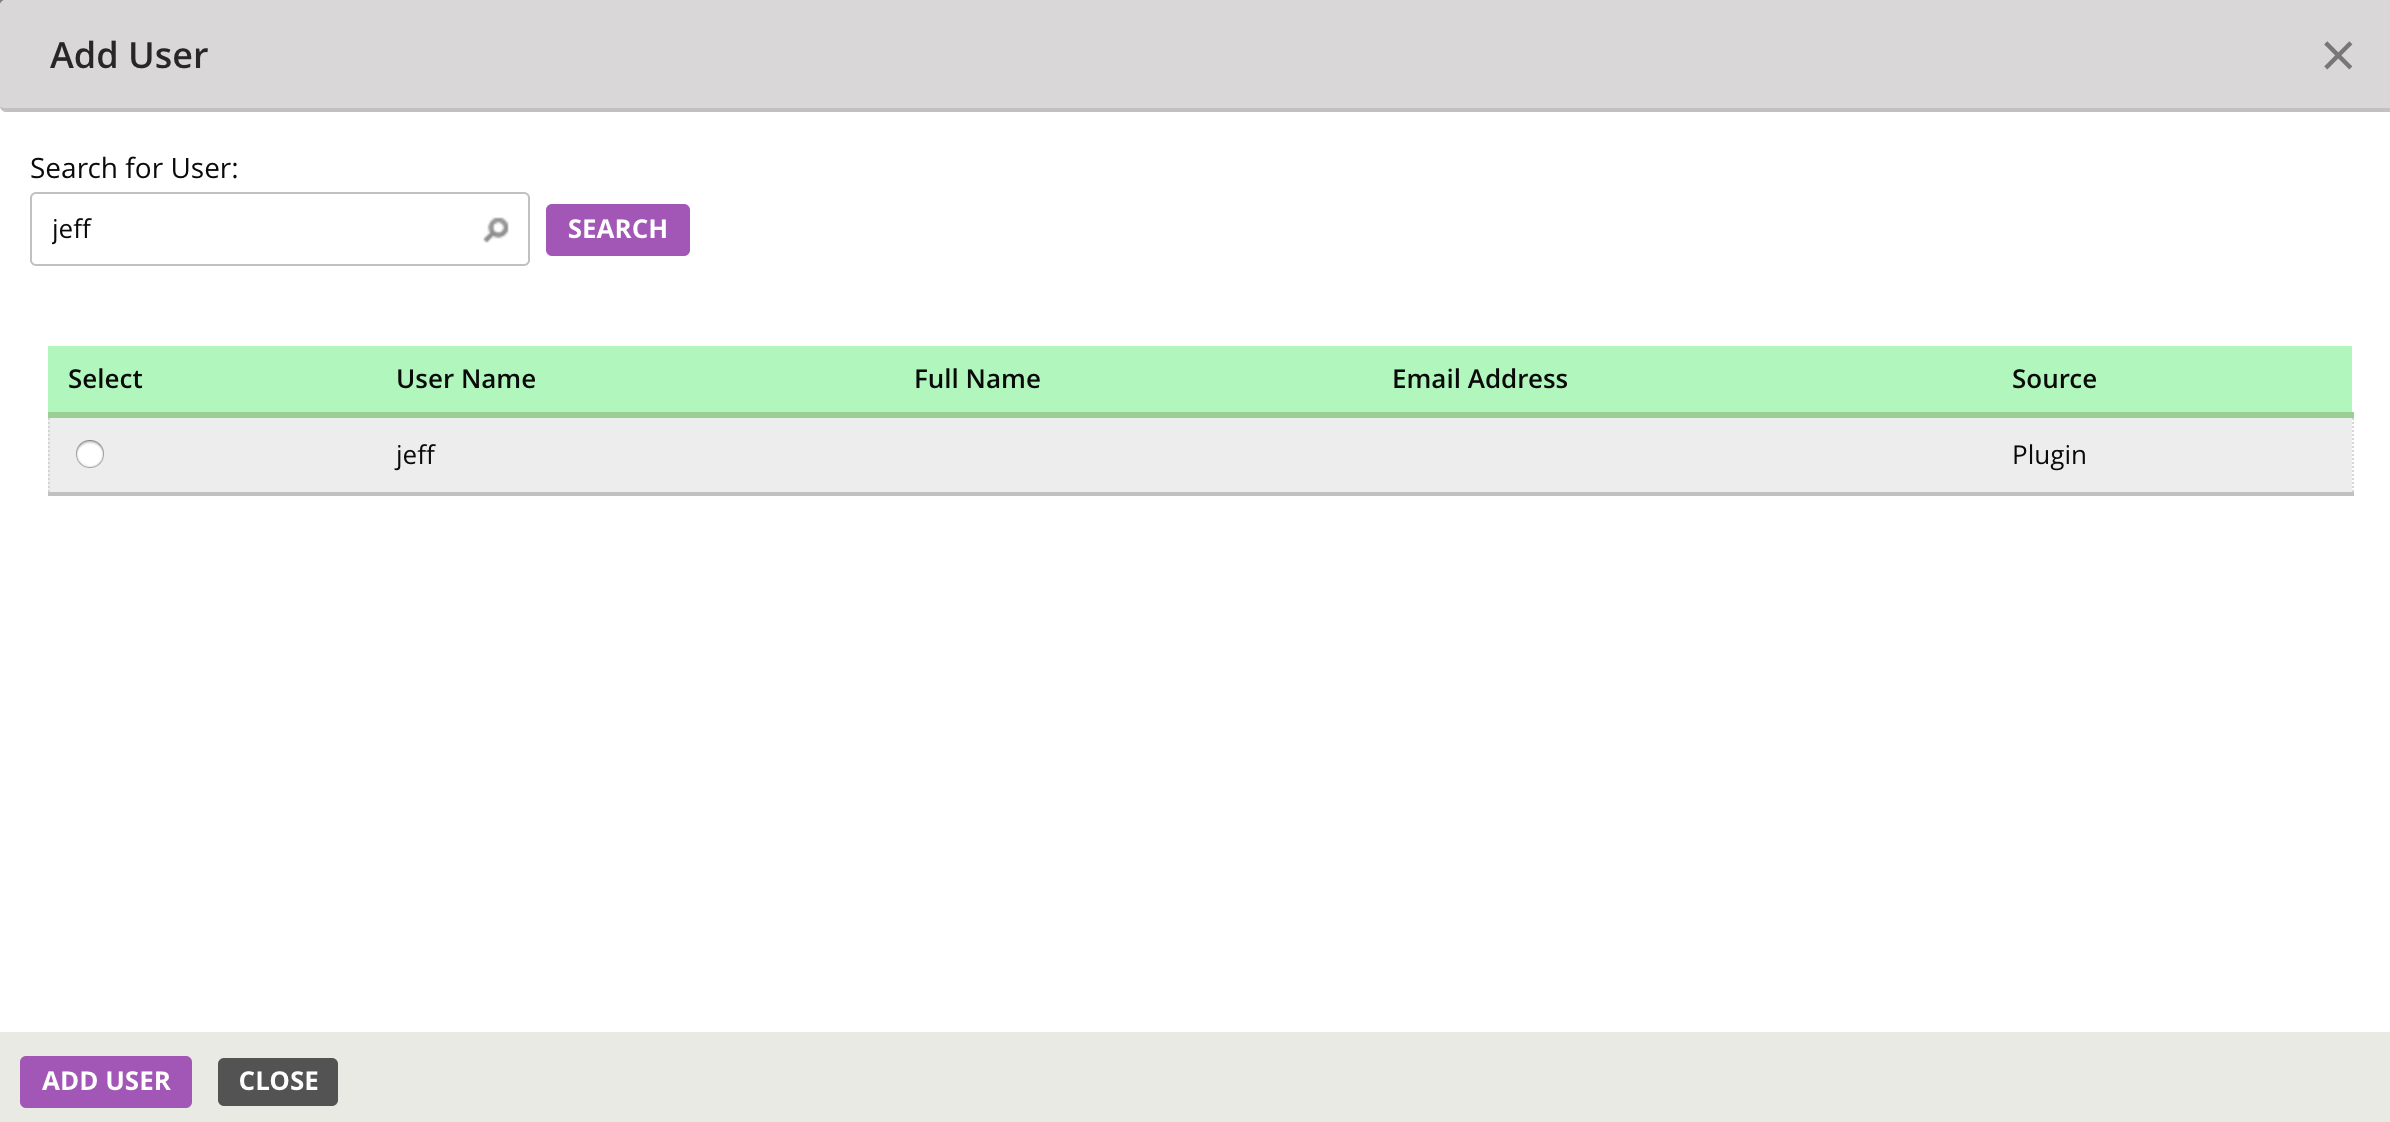
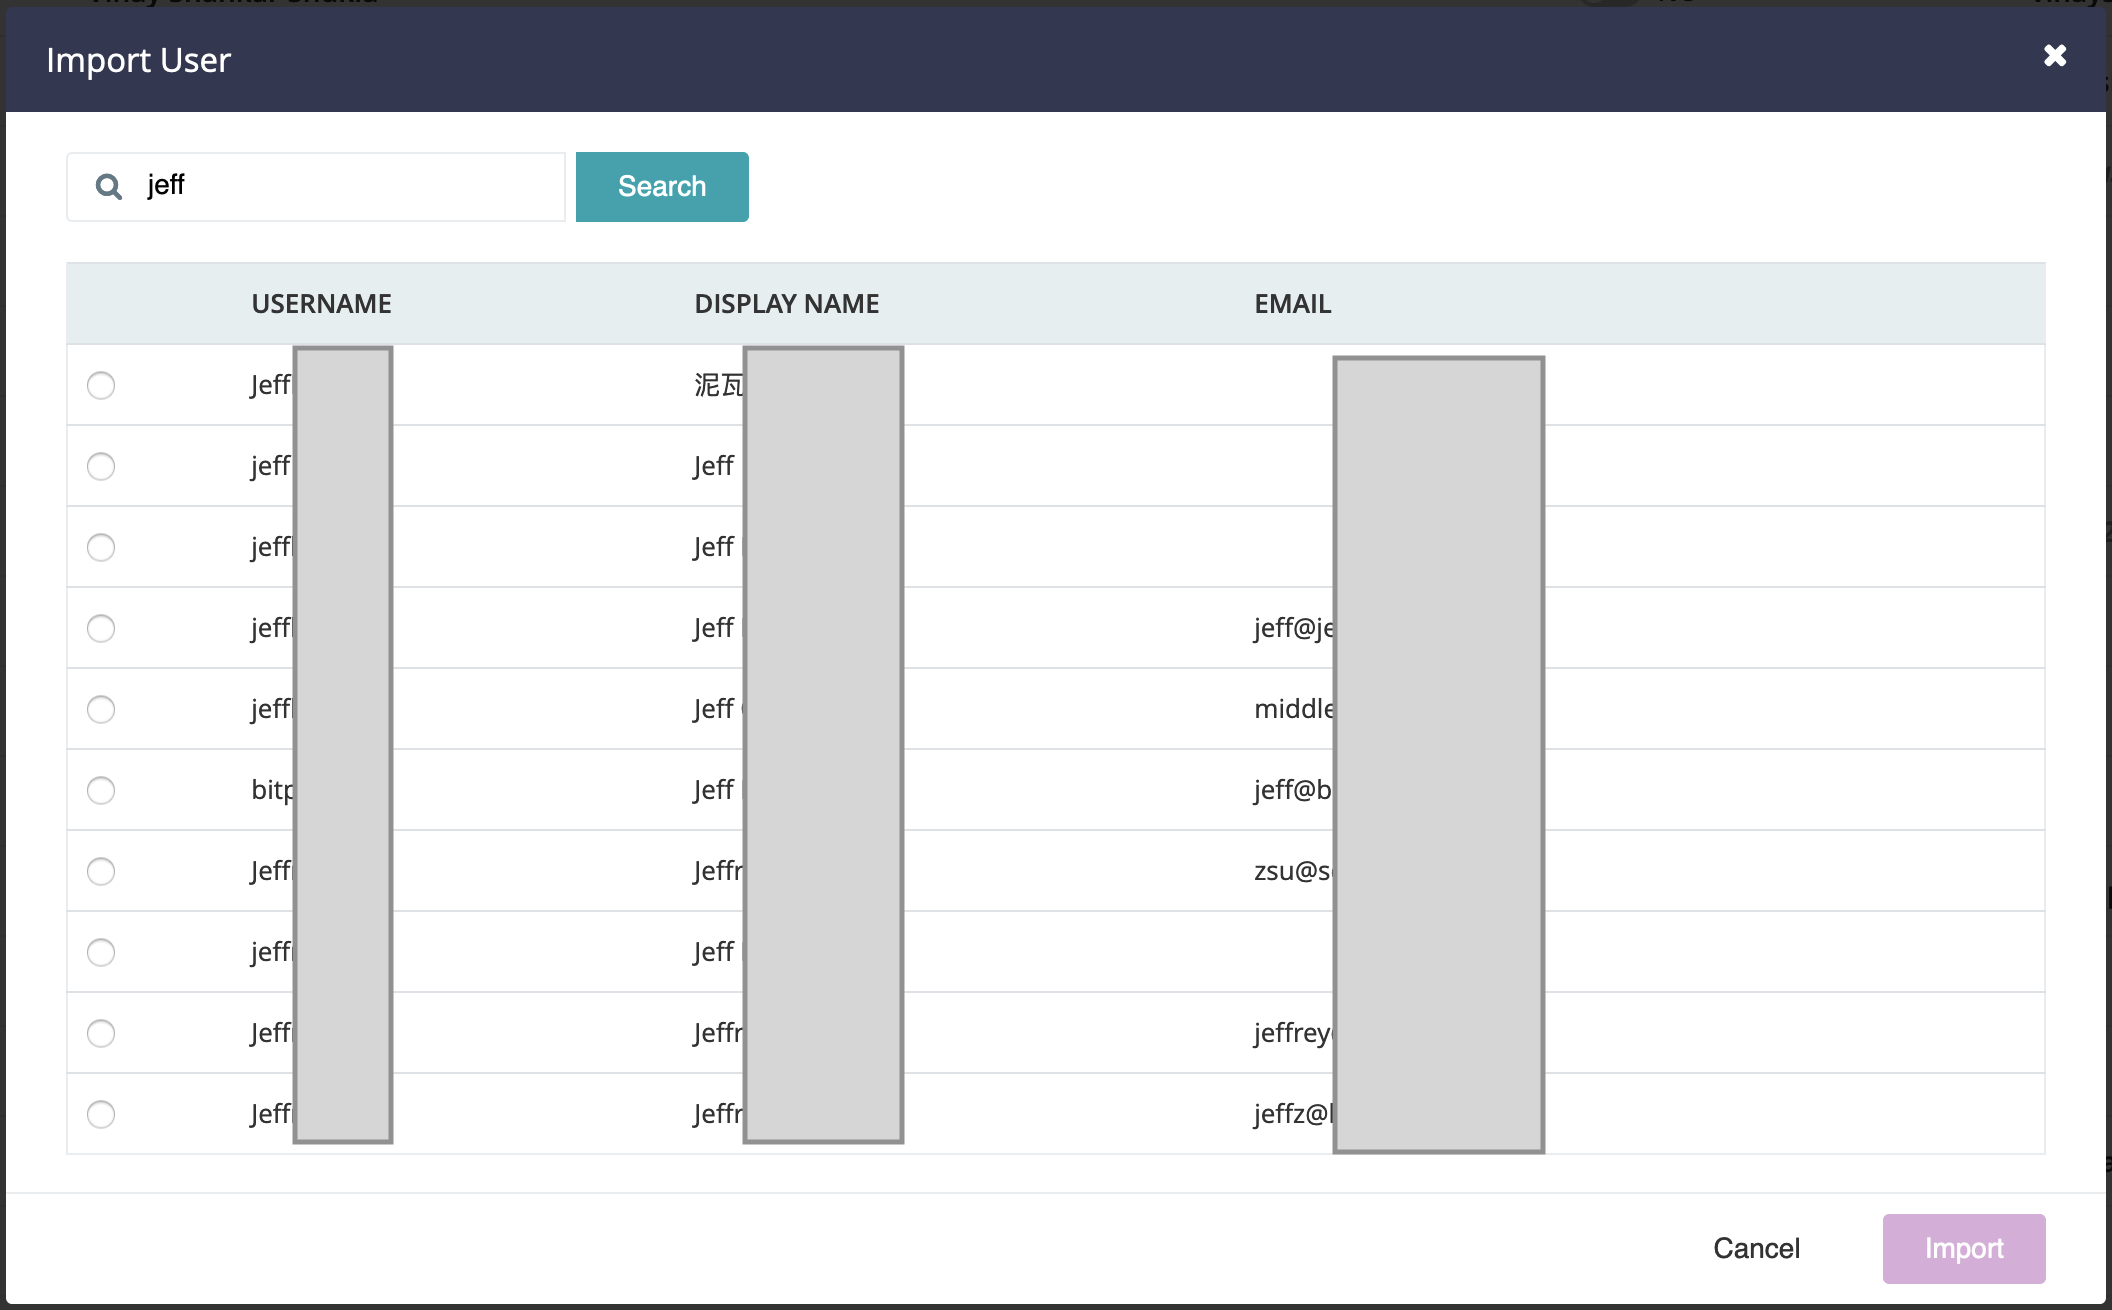
#4940 - Default permission for groups is to deny

diff --git a/content/configuration/managing_users.md b/content/configuration/managing_users.md
@@ -8,19 +8,15 @@ title: Managing Users
 
 GoCD's user management features allow you to control access to GoCD and grant role-based permissions.
 
-All user management features depend on an [authentication mechanism](dev_authentication.html) having been configured in GoCD. Please ensure you have at least one [authentication mechanism](dev_authentication.html) enabled before attempting to use any of the features mentioned in this chapter.
+All user management features depend on an [authentication mechanism](dev_authentication.html) having been configured in GoCD. Please ensure you have at least one authentication mechanism enabled before attempting to use any of the features mentioned in this chapter.
 
 ## Adding Users
 
-1. Navigate to the Admin section
-2. Click on the "User Summary" tab
-3. Click the "Add User" button
-
-![](../images/user_summary_add_user.png)
-
-4. Enter a name/email to search for (minimum 2 characters) and click "Search"
-5. This will perform a search across all authentication mechanisms configured (password file and/or LDAP)
-6. From the list of results, select the user to add and click "Add User"
+1. Click on the menu item: Admin -> Users Management.
+2. Click the "Import User" button
+3. Enter a name/email to search for (minimum 2 characters) and click "Search"
+4. This will perform a search across all authentication mechanisms configured (across authentication mechanisms such as passwordfile, AD, etc)
+5. From the list of results, select the user to add and click "Import User"
 
 ![](../images/user_summary_search.png)
 
@@ -38,27 +34,20 @@ With this setup, your entire team has visibility into what each other is doing, 
 
 **To assign roles to users:**
 
-1. Navigate to the Admin section
-2. Click on the "User Summary" tab
-3. Select the users you want assign roles to, or remove roles from
-4. Click the "Roles" button to see a list of roles
-5. Check/un-check the roles you want to assign/remove from the selected users and click "Apply"
-6. Alternately, you can create a new role to apply to the selected users by typing in the name of a role in the input box and clicking "Add"
+1. Click on the menu item: Admin -> Users Management.
+2. Select the users you want assign roles to, or remove roles from.
+3. Click the "Roles" button to see a list of roles.
+4. Check/un-check the roles you want to assign/remove from the selected users and click "Apply".
+5. Alternately, you can create a new role to apply to the selected users by typing in the name of a role in the input box and clicking "Add".
 
 ![](../images/user_summary_roles.png)
 
-## Managing 'Go System Administrator' privilege
+## Managing 'GoCD System Administrator' privilege
 
-'Go System Administrator' has access to all administrative functions, and has operational access to all parts of a Go installation.
+GoCD System Administrator has access to all administrative functions, and has operational access to all parts of a GoCD installation. The user management page allows you to assign admin privileges to or revoke admin privileges from selected users.
 
-User management page allows you to assign admin privileges to or revoke admin privileges from selected users.
+This control allows you to modify admin privileges for users (not for roles). Enabling "System Admin" privilege to users adds them directly to ```<admins>``` configuration tag in GoCD's configuration XML. This control is disabled when one or more of the selected users have implicit admin privilege through role(s).
 
-This control allows you to modify admin privileges for users (not for roles). Applying the special 'Go System Administrator' role for selected users adds them directly to ```<admins>``` configuration tag. This control is disabled when one or more of the selected users have implicit admin privilege through role(s).
+![](../images/user_summary_system_admin.png)
 
-**Assign/Revoke 'Go System Administrator' privilege:**
-
-1. Navigate to the Admin section
-2. Click on the "User Summary" tab
-3. Select the users you want assign/revoke 'Go System Administrator' privilege.
-4. Click the "Roles" button to load 'Go System Administrator' control
-5. Check/un-check the 'Go System Administrator' checkbox and click "Apply"
+In the image above, "User Four" has implicit administrator privilege. So that cannot be revoked from here. "User Five" is not a GoCD system administrator and can be made one by toggling the switch in their row.

diff --git a/content/configuration/dev_authorization.md b/content/configuration/dev_authorization.md
@@ -19,11 +19,11 @@ If administrators are specified, only they can perform the following actions:
 - Enable agents
 - Add / remove agent resources
 
-Users can be made administrators from the "User Summary" tab in the "Admin" section.
+Users can be made administrators from the "Users Management" section found under the "Admin" menu.
 
-![](../images/user_summary_make_admin.png)
+![](../images/user_summary_system_admin.png)
 
-To give admin privileges to users and/or roles via "Config xml", please refer to the example in the section below, where members of the "go\_admin" role (jhumble and qiao), along with the user chris, can administer Go.
+To give admin privileges to users and/or roles via "Config xml", please refer to the example in the section below, where members of the "go\_admin" role (jhumble and qiao), along with the user chris, can administer GoCD.
 
 ## Role-based Access Control
 
@@ -94,9 +94,9 @@ The **"view" permission** allows users to view the pipeline. It does not give pe
 
 The **"operate" permission** allows users to trigger pipelines and its stages. In the below example, the role "developer" is being granted the operate permission and will be able to trigger pipelines and its stages within this group.
 
-The **"admin" permission** makes the user a [Pipeline Group Administrator](delegating_group_administration.html) allowing him to view, operate and administer the pipeline group. In the below example, role "admins" has been granted this permission.
+The **"admin" permission** makes the user a [Pipeline Group Administrator](delegating_group_administration.html) allowing them to view, operate and administer the pipeline group. In the below example, role "admins" has been granted this permission.
 
-> Note that is is possible to give a user or role only the operate permission. In the example below, the user "bot" only has operate permission. That means they can not view the pipeline, they can only operate it. This can be used to enable a script to operate on pipelines via the APIs without letting that user access any other features of Go.
+> Note that is is possible to give a user or role only the operate permission. In the example below, the user "bot" only has operate permission. That means they can not view the pipeline, they can only operate it. This can be used to enable a script to operate on pipelines via the APIs without letting that user access any other features of GoCD.
 
 To edit the permissions for a pipeline group, navigate to the "Pipelines" tab on the "Admin" section:
 
@@ -106,7 +106,7 @@ Then, click the "Edit" link for the pipeline group you want to manage permission
 
 ![](../images/group_permission.png)
 
-If no authorization is defined for a pipeline group, all GoCD users will have view and operate permissions to that group.
+If no authorization is defined for a pipeline group, it is viewable and operable only by GoCD system administrators.
 
 For power users, here's how you would configure permissions via "Config XML":
 

diff --git a/content/configuration/delegating_group_administration.md b/content/configuration/delegating_group_administration.md
@@ -43,12 +43,12 @@ For power users, here's how you'd assign the same permissions via Config XML:
 As a group administrator of a pipeline group, a user is privileged to:
 
 - View and operate (trigger, rerun stages etc.) all the pipelines in this group.
-- Add other group admins to this group
+- Add other group administrators to this group
 - Authorize users/roles with 'view' and 'operate' permissions for this pipeline group.
-- Add and Delete pipelines to/from the group.
-- Add a pipeline using the "Add New Pipeline" wizard, but only to the groups he is allowed to administer.
-- Edit pipelines belonging to the group. Which includes renaming, adding, deleting and modifying stages and jobs.
-- Restfully view and operate (trigger, rerun stages etc.) all the pipelines in this group.
-- Restfully edit the pipelines belonging to this group.
+- Add to and delete pipelines from the group.
+- Add a pipeline using the "Add New Pipeline" wizard, but only to the groups they are allowed to administer.
+- Edit pipelines belonging to the group including renaming, adding, deleting and modifying stages and jobs.
+- Use APIs to view and operate (trigger, rerun stages etc.) all the pipelines in this group.
+- Use APIs to edit pipelines belonging to this group.
 
 > **Note:** A group administrator can access "Pipelines" and "Config XML" tabs on the Administration page to [view and edit his/her pipeline groups](pipeline_group_admin_config.html). He/She cannot access Server Configuration or perform user management. While a group administrator cannot access Pipeline Templates either, they can use existing templates for pipelines within their pipeline group.
